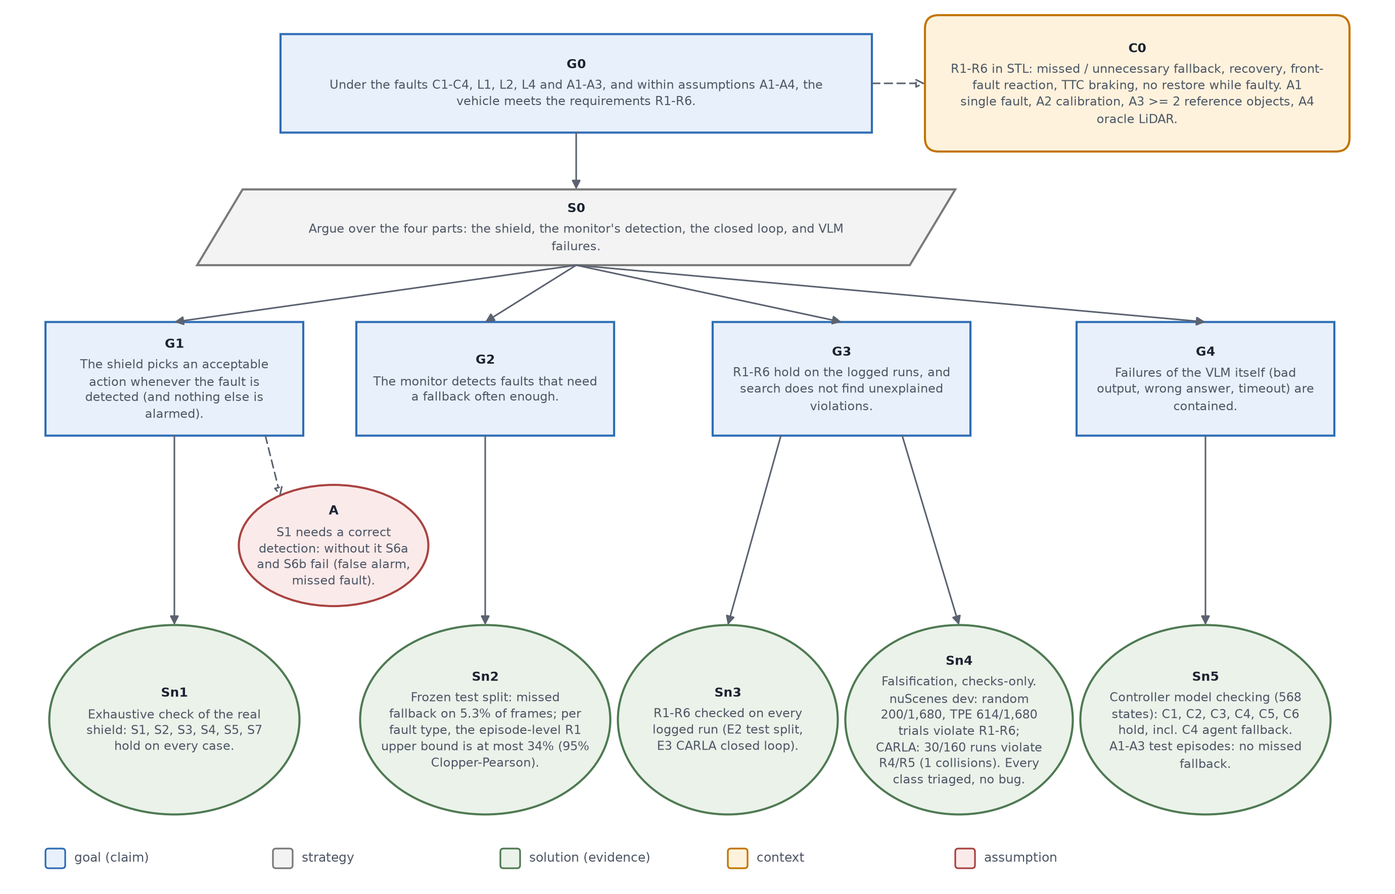
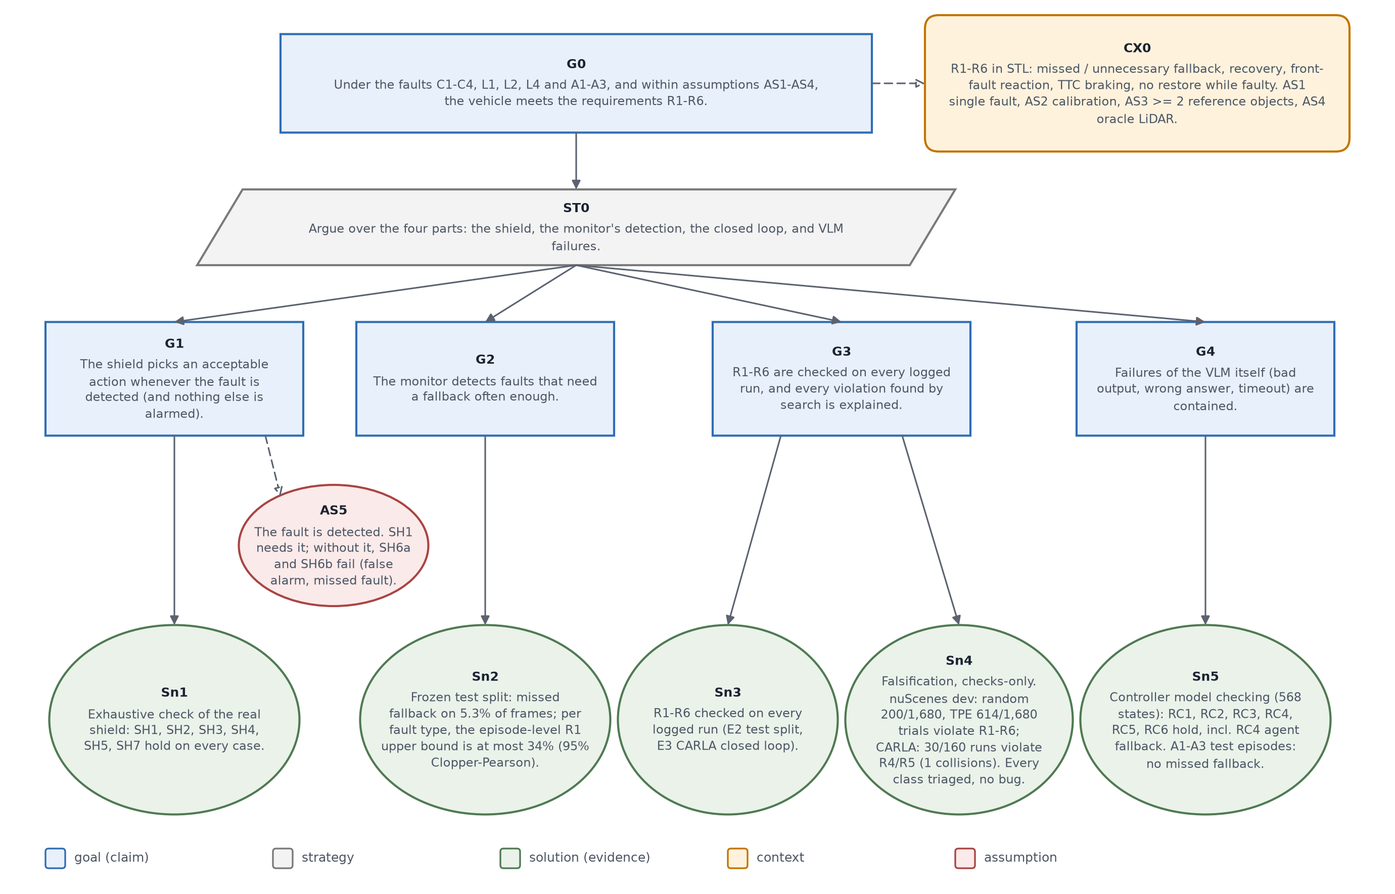
Rename assumption and property labels so no prefix is used twice
Assumptions A1-A4 -> AS1-AS4 (A1-A3 are agent faults), shield properties S1-S7 -> SH1-SH7, controller
properties C1-C6 -> RC1-RC6 (C1-C4 are camera faults), GSN context/strategy -> CX0/ST0. Redraws the
assurance case and the variant figures (axis labels: sensor accuracy, false-alarm rate).

Claude-Session: https://claude.ai/code/session_019UfXnDKkSotNQkE5UxziuS

diff --git a/src/recoverdrive/formal.py b/src/recoverdrive/formal.py
@@ -39,7 +39,7 @@ def subsets(items) -> list[tuple[str, ...]]:
 
 
 def single_fault_labels() -> list[FaultLabel]:
-    """Every single-fault label (assumption A1): each fault type on each sensor it can hit, at each severity."""
+    """Every single-fault label (assumption AS1): each fault type on each sensor it can hit, at each severity."""
     cams = [s for s in SENSORS_ALL if s.startswith("camera:")]
     out = []
     for f in SENSOR_FAULTS:
@@ -133,18 +133,18 @@ def verify_shield() -> list[PropertyResult]:
                 yield a in acceptable_actions(lab), _cex(lab, r, a)
 
     return [
-        _check("S1", "Assume-guarantee: under a single fault (A1), if the monitor detects it and isolates the right "
+        _check("SH1", "Assume-guarantee: under a single fault (AS1), if the monitor detects it and isolates the right "
                      "sensor (a clean frame stays healthy), the shield's action is acceptable.", s1()),
-        _check("S2", "Monotone: for the same state, isolating more sensors never gives a less cautious action.", s2()),
-        _check("S3", "No front perception: degraded with CAM_FRONT and LiDAR both isolated gives stop.", s3()),
-        _check("S4", "State rules: unresolved gives stop; healthy gives continue.", s4()),
-        _check("S5", "TTC dominance: TTC < 2 s gives stop whatever the monitor chose; otherwise the action is "
+        _check("SH2", "Monotone: for the same state, isolating more sensors never gives a less cautious action.", s2()),
+        _check("SH3", "No front perception: degraded with CAM_FRONT and LiDAR both isolated gives stop.", s3()),
+        _check("SH4", "State rules: unresolved gives stop; healthy gives continue.", s4()),
+        _check("SH5", "TTC dominance: TTC < 2 s gives stop whatever the monitor chose; otherwise the action is "
                      "unchanged.", s5()),
-        _check("S6a", "Detection is necessary (false alarm): on a clean frame, any outcome other than healthy is "
+        _check("SH6a", "Detection is necessary (false alarm): on a clean frame, any outcome other than healthy is "
                       "acceptable. Expected to fail.", s6a()),
-        _check("S6b", "Detection is necessary (missed fault): on a fault frame, a healthy outcome is acceptable. "
+        _check("SH6b", "Detection is necessary (missed fault): on a fault frame, a healthy outcome is acceptable. "
                       "Expected to fail.", s6b()),
-        _check("S7", "Misattribution tolerance: on any fault frame, isolating exactly one sensor, even the wrong one, "
+        _check("SH7", "Misattribution tolerance: on any fault frame, isolating exactly one sensor, even the wrong one, "
                      "gives an acceptable action.", s7()),
     ]
 
@@ -246,13 +246,13 @@ def verify_controller(graph: ControllerGraph, cfg: RecoveryConfig) -> list[Prope
                 yield e[4] == (), cex(e)
 
     return [
-        _check("C1", "Confident isolation: a fault diagnosis on s with confidence >= tau isolates s in that step.",
+        _check("RC1", "Confident isolation: a fault diagnosis on s with confidence >= tau isolates s in that step.",
                c1()),
-        _check("C2", "Persistence: a sensor suspected in two consecutive steps is isolated.", c2()),
-        _check("C3", "Restoration: an isolated sensor that is neither flagged nor suspected is restored.", c3()),
-        _check("C4", "Agent fallback: when the VLM gives no valid answer, the agent is isolated and the deterministic "
+        _check("RC2", "Persistence: a sensor suspected in two consecutive steps is isolated.", c2()),
+        _check("RC3", "Restoration: an isolated sensor that is neither flagged nor suspected is restored.", c3()),
+        _check("RC4", "Agent fallback: when the VLM gives no valid answer, the agent is isolated and the deterministic "
                      "flags decide.", c4()),
-        _check("C5", "Verify soundness: degraded means every flagged sensor is isolated and every isolation has "
+        _check("RC5", "Verify soundness: degraded means every flagged sensor is isolated and every isolation has "
                      "confidence >= tau.", c5()),
-        _check("C6", "Healthy soundness: healthy means nothing is isolated.", c6()),
+        _check("RC6", "Healthy soundness: healthy means nothing is isolated.", c6()),
     ]

diff --git a/scripts/make_assurance_figure.py b/scripts/make_assurance_figure.py
@@ -98,12 +98,12 @@ def draw(n: dict, out: Path) -> None:
     ax.axis("off")
 
     g0 = node(ax, "goal", 760, 110, 780, 130, "G0",
-              "Under the faults C1-C4, L1, L2, L4 and A1-A3, and within assumptions A1-A4, the vehicle meets "
+              "Under the faults C1-C4, L1, L2, L4 and A1-A3, and within assumptions AS1-AS4, the vehicle meets "
               "the requirements R1-R6.", 80)
-    c0 = node(ax, "context", 1500, 110, 560, 180, "C0",
+    c0 = node(ax, "context", 1500, 110, 560, 180, "CX0",
               "R1-R6 in STL: missed / unnecessary fallback, recovery, front-fault reaction, TTC braking, no restore "
-              "while faulty. A1 single fault, A2 calibration, A3 >= 2 reference objects, A4 oracle LiDAR.", 62)
-    s0 = node(ax, "strategy", 760, 300, 940, 100, "S0",
+              "while faulty. AS1 single fault, AS2 calibration, AS3 >= 2 reference objects, AS4 oracle LiDAR.", 62)
+    s0 = node(ax, "strategy", 760, 300, 940, 100, "ST0",
               "Argue over the four parts: the shield, the monitor's detection, the closed loop, and VLM failures.", 96)
     gy, gw, gh = 500, 340, 150
     goals = [
@@ -111,13 +111,13 @@ def draw(n: dict, out: Path) -> None:
              "detected (and nothing else is alarmed).", 36),
         node(ax, "goal", 640, gy, gw, gh, "G2", "The monitor detects faults that need a fallback often enough.",
              36),
-        node(ax, "goal", 1110, gy, gw, gh, "G3", "R1-R6 hold on the logged runs, and search does not find "
-             "unexplained violations.", 36),
-        node(ax, "goal", 1590, gy, gw, gh, "G4", "Failures of the VLM itself (bad output, wrong answer, timeout) "
+        node(ax, "goal", 1110, gy, gw, gh, "G3", "R1-R6 are checked on every logged run, and every "
+             "violation found by search is explained.", 36),
+        node(ax, "goal", 1590, gy, gw, gh, "G4", "Failures of the VLM itself (corrupted output, wrong answer, timeout) "
              "are contained.", 36),
     ]
-    a1 = node(ax, "assumption", 440, 720, 250, 160, "A",
-              "S1 needs a correct detection: without it S6a and S6b fail (false alarm, missed fault).", 26)
+    a1 = node(ax, "assumption", 440, 720, 250, 160, "AS5",
+              "The fault is detected. SH1 needs it; without it, SH6a and SH6b fail (false alarm, missed fault).", 26)
     ey, eh = 950, 250
     fals = n["fals"]
     fals_text = ("Falsification, checks-only. nuScenes dev: "
@@ -125,8 +125,8 @@ def draw(n: dict, out: Path) -> None:
                  "trials violate R1-R6" if fals else "Falsification: pending")
     if n["carla"]:
         v, total, coll = n["carla"]
-        fals_text += f"; CARLA: {v}/{total} runs violate R4/R5 ({coll} collisions)"
-    fals_text += ". Every class triaged, no bug." if fals else "."
+        fals_text += f"; CARLA: {v}/{total} runs violate R4/R5 ({coll} collision{"" if coll == 1 else "s"})"
+    fals_text += ". Every class triaged, no logic bug." if fals else "."
     evidence = [
         node(ax, "evidence", 230, ey, 330, eh, "Sn1",
              f"Exhaustive check of the real shield: {', '.join(n['proved'])} hold on every case.", 30),
@@ -137,7 +137,7 @@ def draw(n: dict, out: Path) -> None:
              "R1-R6 checked on every logged run (E2 test split, E3 CARLA closed loop).", 26),
         node(ax, "evidence", 1265, ey, 300, eh, "Sn4", fals_text, 27),
         node(ax, "evidence", 1590, ey, 330, eh, "Sn5",
-             f"Controller model checking ({n['states']} states): {', '.join(n['ctrl'])} hold, incl. C4 agent "
+             f"Controller model checking ({n['states']} states): {', '.join(n['ctrl'])} hold, incl. RC4 agent "
              f"fallback. A1-A3 test episodes: {'no' if n['agent_ok'] else 'some'} missed fallback.", 32),
     ]
 

diff --git a/tests/test_formal.py b/tests/test_formal.py
@@ -27,7 +27,7 @@ def test_explore_reaches_fixpoint():
 
 def test_controller_properties_hold(default_graph):
     res = by_name(verify_controller(default_graph, RecoveryConfig()))
-    assert set(res) == {"C1", "C2", "C3", "C4", "C5", "C6"}
+    assert set(res) == {"RC1", "RC2", "RC3", "RC4", "RC5", "RC6"}
     for name, r in res.items():
         assert r.holds and r.n_cases > 0, (name, r.counterexample)
 
@@ -35,20 +35,20 @@ def test_controller_properties_hold(default_graph):
 def test_c2_fails_without_reobserve():
     cfg = RecoveryConfig(reobserve=False)
     g = explore_controller(("camera:CAM_FRONT", "lidar", "camera:CAM_BACK"), cfg)
-    c2 = by_name(verify_controller(g, cfg))["C2"]
+    c2 = by_name(verify_controller(g, cfg))["RC2"]
     assert not c2.holds and c2.counterexample is not None
 
 
 def test_shield_properties_hold():
     res = by_name(verify_shield())
-    for name in ("S1", "S2", "S3", "S4", "S5", "S7"):
+    for name in ("SH1", "SH2", "SH3", "SH4", "SH5", "SH7"):
         assert res[name].holds, (name, res[name].counterexample)
         assert res[name].n_cases > 0 and res[name].counterexample is None
 
 
 def test_s6_without_correct_detection_has_counterexamples():
     res = by_name(verify_shield())
-    false_alarm, missed = res["S6a"], res["S6b"]
+    false_alarm, missed = res["SH6a"], res["SH6b"]
     assert not false_alarm.holds and false_alarm.counterexample["label"]["fault_id"] == "none"
     assert not missed.holds and missed.counterexample["result"]["final_state"] == "healthy"
     assert missed.counterexample["action"] == "continue"

diff --git a/scripts/verify_logic.py b/scripts/verify_logic.py
@@ -44,13 +44,13 @@ def main() -> None:
     ctrl_results = verify_controller(graph, cfg)
     sanity_cfg = RecoveryConfig(reobserve=False)
     sanity = {r.name: r for r in verify_controller(explore_controller(DEFAULT_CONTROLLER_SENSORS, sanity_cfg),
-                                                   sanity_cfg)}["C2"]
+                                                   sanity_cfg)}["RC2"]
     method = (f"Explicit-state model checking of `RecoveryController` with the frozen settings (tau = "
               f"{cfg.conf_threshold}). Sensors: {', '.join(DEFAULT_CONTROLLER_SENSORS)}. The controller never looks at "
               "sensor names and the shield only checks membership in the front set, so two front and two non-front "
               "sensors cover every role combination of the 7 sensors. Inputs per step: no valid answer, ok, "
               "uncertain or fault on each sensor, with confidence 0.5 or 1.0, and every set of flagged sensors.")
-    sanity_line = (f"Sanity check: with re-observation switched off, C2 {'holds' if sanity.holds else 'fails'} "
+    sanity_line = (f"Sanity check: with re-observation switched off, RC2 {'holds' if sanity.holds else 'fails'} "
                    f"({json.dumps(sanity.counterexample)}), so the checker can find violations.")
     md += ["", "## Recovery controller", "", method, "",
            f"Reachable states: {len(graph.states)}; transitions checked: {len(graph.edges)}.", ""]

diff --git a/scripts/triage_falsification.py b/scripts/triage_falsification.py
@@ -22,7 +22,7 @@ from recoverdrive.runner import git_state
 from recoverdrive.stl import series
 
 REPO = Path(__file__).resolve().parents[1]
-MIN_REFERENCE = 2  # assumption A3
+MIN_REFERENCE = 2  # assumption AS3
 NEAR = 1.25  # a level below 1.25 x the "medium" value counts as near the low/medium label boundary
 
 
@@ -53,7 +53,7 @@ def classify(spec_name: str, recs: list[dict], t: int, method: str, p: dict, fau
         window = recs[t:t + 2]
         if not any(s in flags_at(x) for x in window):
             if (n := n_ref(r, s)) is not None and n < MIN_REFERENCE:
-                return "missed: camera has < 2 reference objects (A3)"
+                return "missed: camera has < 2 reference objects (AS3)"
             if near_boundary(fault, p, lab["severity"]):
                 return "missed: level near the low/medium label boundary"
             return "missed: fault below the detection limit of the checks"
@@ -81,7 +81,7 @@ def classify(spec_name: str, recs: list[dict], t: int, method: str, p: dict, fau
         if s in flags_at(nxt):
             return "BUG? restored while still flagged"
         if (n := n_ref(nxt, s)) is not None and n < MIN_REFERENCE:
-            return "evidence lost: < 2 reference objects (A3)"
+            return "evidence lost: < 2 reference objects (AS3)"
         return "evidence intermittent: the check misses one frame of an active fault"
     raise ValueError(spec_name)
 

diff --git a/scripts/make_results_figures.py b/scripts/make_results_figures.py
@@ -233,7 +233,7 @@ def fig7_replays(tags: list[str]) -> None:
 
 def fig8_variants(rows: dict[str, dict], title: str, name: str) -> None:
     methods = [m for m in (*REFERENCE, *VARIANTS) if m in rows]
-    metrics = [("F1", "F1 (higher is better)"), ("sensor_acc", "right sensor named"), ("false_alarm", "false alarm rate"),
+    metrics = [("F1", "F1 (higher is better)"), ("sensor_acc", "sensor accuracy"), ("false_alarm", "false-alarm rate"),
                ("unnecessary", "unnecessary fallback"), ("missed", "missed fallback")]
     fig, axes = plt.subplots(1, len(metrics), figsize=(15, 0.9 + 0.42 * len(methods)), sharey=True)
     y = np.arange(len(methods))

diff --git a/docs/requirements-and-verification.md b/docs/requirements-and-verification.md
@@ -11,6 +11,17 @@ file:
 Phase B (GPU campaigns, replays with the VLM, CARLA) finished on 2026-11-21; the run log is
 `docs/superpowers/runs/2026-11-21-finish-and-vlm-variants.md`.
 
+Labels (renamed on 2026-11-24 so that no prefix is used twice; older outputs use A1–A4, S1–S7 and C1–C6):
+
+| Prefix | Meaning |
+|---|---|
+| C1–C4, L1, L2, L4, A1–A3 | Injected faults: camera, LiDAR, agent (the VLM) |
+| R1–R6 | Formal requirements (STL) |
+| AS1–AS4 | Assumptions under which the requirements are stated |
+| SH1–SH7 | Proven or refuted properties of the safety shield |
+| RC1–RC6 | Proven properties of the recovery controller |
+| G, ST, CX, Sn | Assurance-case nodes: goal, strategy, context, solution (evidence) |
+
 ## Requirements (after "Assumptions and Constraints")
 
 We state the requirements in Signal Temporal Logic (STL) over discrete steps of 0.5 s (nuScenes keyframes at 2 Hz;
@@ -31,11 +42,11 @@ CARLA runs perception every 0.5 s). The signals are:
 | R6 | No sensor is restored while it is still faulty | G( (fault_s ∧ iso_s) → X (iso_s ∨ ¬fault_s) ), for every sensor s |
 
 **Assumptions:**
-- A1: at most one sensor fault at a time.
-- A2: calibration and timestamps are correct.
-- A3: a camera can be cross-checked only when at least two LiDAR-confirmed objects (≥ 5 points, within 50 m) project
+- AS1: at most one sensor fault at a time.
+- AS2: calibration and timestamps are correct.
+- AS3: a camera can be cross-checked only when at least two LiDAR-confirmed objects (≥ 5 points, within 50 m) project
   into it.
-- A4: LiDAR objects come from ground-truth boxes, an oracle detector.
+- AS4: LiDAR objects come from ground-truth boxes, an oracle detector.
 
 The requirements go beyond reach-avoid:
 - R1 and R2 together bound the action from both sides, so the monitor must be neither too permissive nor too cautious.
@@ -57,22 +68,22 @@ nothing can drift between model and code.
 
 | Property | Statement | Cases | Result |
 |---|---|---|---|
-| S1 | Assume-guarantee: a single fault that is detected and isolated correctly leads to an acceptable action | 77 | holds |
-| S2 | Isolating more sensors never makes the action less cautious | 19,683 | holds |
-| S3 | With no front perception (front camera and LiDAR both isolated), the shield stops | 64 | holds |
-| S4 | Unresolved leads to stop; healthy leads to continue | 512 | holds |
-| S5 | TTC < 2 s leads to stop, whatever the monitor chose | 15 | holds |
-| S6a | Without correct detection: any outcome on a clean frame is acceptable | 257 | fails (false alarm) |
-| S6b | Without correct detection: "healthy" on a fault frame is acceptable | 1 | fails (missed C1 → continue) |
-| S7 | On a fault frame, isolating any single sensor, even the wrong one, gives an acceptable action | 608 | holds |
+| SH1 | Assume-guarantee: a single fault that is detected and isolated correctly leads to an acceptable action | 77 | holds |
+| SH2 | Isolating more sensors never makes the action less cautious | 19,683 | holds |
+| SH3 | With no front perception (front camera and LiDAR both isolated), the shield stops | 64 | holds |
+| SH4 | Unresolved leads to stop; healthy leads to continue | 512 | holds |
+| SH5 | TTC < 2 s leads to stop, whatever the monitor chose | 15 | holds |
+| SH6a | Without correct detection: any outcome on a clean frame is acceptable | 257 | fails (false alarm) |
+| SH6b | Without correct detection: "healthy" on a fault frame is acceptable | 1 | fails (missed C1 → continue) |
+| SH7 | On a fault frame, isolating any single sensor, even the wrong one, gives an acceptable action | 608 | holds |
 
-S1 and S6 split system safety into two parts:
-- **The shield, proven correct (S1):** if the monitor detects the fault, the action is acceptable.
-- **The monitor's detection, measured:** without correct detection, the guarantee breaks, both on false alarms (S6a)
-  and on missed faults (S6b). The counterexample of S6b, a front camera showing the rear view reported as healthy, is
+SH1 and SH6 split system safety into two parts:
+- **The shield, proven correct (SH1):** if the monitor detects the fault, the action is acceptable.
+- **The monitor's detection, measured:** without correct detection, the guarantee breaks, both on false alarms (SH6a)
+  and on missed faults (SH6b). The counterexample of SH6b, a front camera showing the rear view reported as healthy, is
   exactly the failure that caused the collisions of the unmonitored car in CARLA.
 
-S7 adds a less obvious result: naming the wrong sensor is never unsafe on its own. Any single isolation leads to
+SH7 adds a less obvious result: naming the wrong sensor is never unsafe on its own. Any single isolation leads to
 slowing down, and slowing down is acceptable on every fault frame. Detection, not attribution, is what safety depends
 on.
 
@@ -81,13 +92,13 @@ two front sensors (front camera, LiDAR) and two non-front cameras. The controlle
 the shield only checks membership in the front set, so these four sensors cover every role combination of the seven.
 
 The controller has 568 reachable states and 172,672 transitions, and all six properties hold:
-- C1: a confident fault isolates the sensor in the same step.
-- C2: a sensor suspected in two consecutive steps is isolated.
-- C3: an isolated sensor that is neither flagged nor suspected is restored.
-- C4: when the VLM gives no valid answer, the deterministic flags decide.
-- C5 and C6: "degraded" and "healthy" are only reported when they are consistent.
+- RC1: a confident fault isolates the sensor in the same step.
+- RC2: a sensor suspected in two consecutive steps is isolated.
+- RC3: an isolated sensor that is neither flagged nor suspected is restored.
+- RC4: when the VLM gives no valid answer, the deterministic flags decide.
+- RC5 and RC6: "degraded" and "healthy" are only reported when they are consistent.
 
-As a sanity check, switching off re-observation makes C2 fail with a counterexample.
+As a sanity check, switching off re-observation makes RC2 fail with a counterexample.
 
 ### Requirements on the logged runs
 
@@ -105,7 +116,7 @@ frames). This confirms that the STL encoding and the metric agree.
 - R1 and R2 restate the fallback results as specifications. B3 avoids missed fallbacks by being cautious everywhere,
   so it violates R2 in every run.
 - R6 is violated only by the monitors that isolate sensors: in 1.4% of obligations, an isolated sensor is restored
-  while its fault is still active. This happens when the faulty camera loses its reference objects (assumption A3).
+  while its fault is still active. This happens when the faulty camera loses its reference objects (assumption AS3).
 - **CARLA:** Ours-full meets R2, R4 and R5 in every run, and B0 collides in 7 of 12 faulty runs (R5).
   - R6 fails in 2 of the 12 C1 runs of Ours-full. These are the restorations seen in the demo, when nothing is in view
     to cross-check.
@@ -157,7 +168,7 @@ causes, and none to the recovery logic or the shield (both proven above):
 - **The detection limit or the known false-alarm rate of the checks:** false alarms on clean frames (307 trials),
   a check that misses one frame of an active fault (141), faults too weak for the checks (116), other sensors
   flagged during or after the episode (29).
-- **A violated assumption A3,** a camera with fewer than two reference objects: 105 trials.
+- **A violated assumption AS3,** a camera with fewer than two reference objects: 105 trials.
 - **Design choices or label boundaries:** one step of recovery lag (65), temporal checks that compare with the
   still-faulty previous frame (36), levels at the low/medium label boundary (15).
 
@@ -181,16 +192,16 @@ Replayed with Ours-full, the same scenario also collides. Misalignment is the we
 ## Assurance case (before the Conclusion)
 
 The figure shows the assurance case in Goal Structuring Notation (`docs/media/assurance_case.png`). The top claim
-(G0) is that, under the faults C1–C4, L1, L2, L4 and A1–A3 and within assumptions A1–A4, the vehicle meets R1–R6.
+(G0) is that, under the faults C1–C4, L1, L2, L4 and A1–A3 and within assumptions AS1–AS4, the vehicle meets R1–R6.
 
 The argument splits into four parts:
-- **G1, the shield:** proven by exhaustive checking (S1–S5, S7). It holds under the assumption that the fault is
-  detected; S6a and S6b show that this assumption is needed.
+- **G1, the shield:** proven by exhaustive checking (SH1–SH5, SH7). It holds under the assumption that the fault is
+  detected; SH6a and SH6b show that this assumption is needed.
 - **G2, the monitor's detection:** measured on the frozen test split. Missed fallback occurs on 5.3% of frames, and
   per fault type the episode-level bounds are given above.
 - **G3, the requirements:** checked on every logged run, and searched for violations by falsification. Each violation
   class is traced to a cause: an assumption, a label boundary, or a fixed bug.
-- **G4, failures of the VLM itself:** contained by the rule-based fallback (C4, proven). On the test split, the
+- **G4, failures of the VLM itself:** contained by the rule-based fallback (RC4, proven). On the test split, the
   agent-fault episodes (A1–A3) show no missed fallback.
 
 The weakest link is G2. The guarantee holds only as far as the monitor detects faults, and the residual risk sits in

diff --git a/docs/superpowers/runs/results-provenance.md b/docs/superpowers/runs/results-provenance.md
@@ -64,7 +64,7 @@ records its commit in its JSON or `meta.json`.
 | Result | Path | Commit | Source |
 |---|---|---|---|
 | R1–R6 on the logged runs (test split, E3) and Clopper–Pearson bounds | `report_figures/requirements.{md,json}` (repo root, not tracked) | `38707da` | Recorded. Reads `eval/test_final`, `eval/test_checks_only`, `e3/e3_final`. |
-| Shield and controller verification (S1–S7, C1–C6) | `report_figures/formal.{md,json}` | `3c3f707` | Recorded. |
+| Shield and controller verification (SH1–SH7, RC1–RC6; named S1–S7, C1–C6 before 2026-11-24) | `report_figures/formal.{md,json}` | `3c3f707` | Recorded. |
 | nuScenes falsification, CPU faults (C1, C4, L1, L2, L4; 2,400 trials, checks-only, dev) | `falsify/nuscenes_cpu_v1/` | `fbd56ff` | Recorded (`meta.json`, `summary.md`). |
 | Falsification triage | `falsify/nuscenes_cpu_v1/triage.{md,json}` | `20ebeb8` | Recorded. |
 | Assurance case figure | `docs/media/assurance_case.png` (tracked) | `20ebeb8` | `scripts/make_assurance_figure.py` from the files above. |

diff --git a/docs/experiments.md b/docs/experiments.md
@@ -6,7 +6,7 @@ One table for every experiment of the project. **Changed** = the independent var
 
 Common to all nuScenes experiments unless stated otherwise: nuScenes v1.0-mini, scene-level split (6 dev scenes for
 tuning, 4 test scenes run once from the frozen commit `5d5283c`), keyframes at 2 Hz, SAM 3 camera detector (6 classes,
-score ≥ 0.5), LiDAR objects = annotated boxes with ≥ 5 points within 50 m (assumption A4), Qwen3-VL-8B-Instruct on
+score ≥ 0.5), LiDAR objects = annotated boxes with ≥ 5 points within 50 m (assumption AS4), Qwen3-VL-8B-Instruct on
 vLLM, the frozen thresholds of `configs/eval.yaml`, the same recovery controller (re-ask ≤ 2, 3-sample vote at T = 0.7,
 vote threshold 0.6) and the same rule-based shield (continue < slow_down < stop). Fault episodes: seeded, 2–6 frames,
 fault ratio 0.5, at most one fault at a time.

diff --git a/docs/vlm-variants.md b/docs/vlm-variants.md
@@ -13,7 +13,7 @@ Two earlier results show that, in the frozen system, the VLM adds little of its 
 The frozen prompt tells the VLM "The deterministic checks are reliable" and asks it to use the images only to
 confirm a flagged sensor, so it follows the checks, including their false alarms and misses. The falsification
 triage puts the remaining errors in the checks' evidence: false alarms on clean frames, faults below the detection
-limit, and cameras with fewer than two reference objects (assumption A3). A VLM that judges the raw images itself
+limit, and cameras with fewer than two reference objects (assumption AS3). A VLM that judges the raw images itself
 could, in principle, cover these cases.
 
 ## The variants
